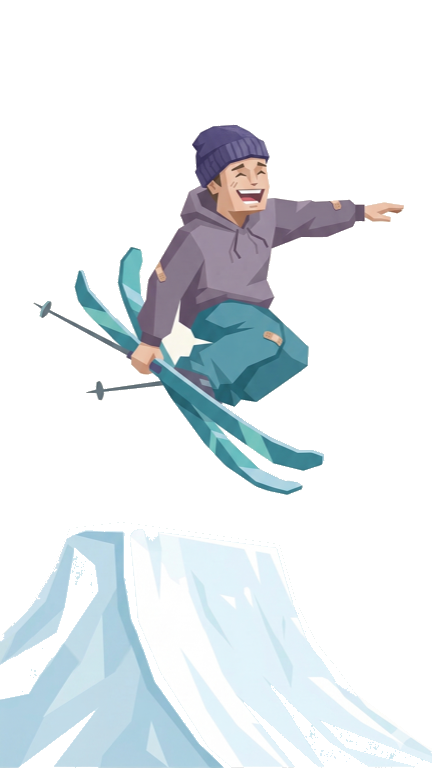
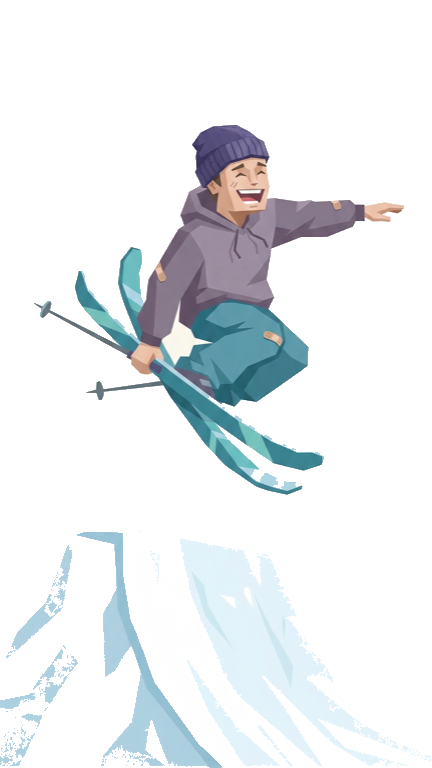
Improve checker removal: detect top-4 clusters, expand gray range
Some images had 3+ distinct shades in the checker pattern (e.g. drama.png
had 51/138/223/250). Previously only the top 2 clusters were used, leaving
intermediate shades as opaque fringe.

- Detect up to 4 background color clusters (was 2)
- Wider color tolerance (18 from 12)
- Gray range padding: extend lower by 10 and upper to 255 if near-white
- Add tree.png (new personality image)

All images now have <2% opaque edge pixels (was 53% for drama).

diff --git a/scripts/remove-checker.js b/scripts/remove-checker.js
@@ -17,7 +17,7 @@ const { PNG } = require("pngjs");
 const DIR = path.join(__dirname, "..", "public", "images", "personalities");
 const BACKUP_DIR = path.join(__dirname, "..", "public", "images", "personalities-raw");
 
-const COLOR_TOLERANCE = 12; // max component difference to consider "same color"
+const COLOR_TOLERANCE = 18; // max component difference to consider "same color"
 
 function colorDist(a, b) {
   return Math.max(Math.abs(a[0] - b[0]), Math.abs(a[1] - b[1]), Math.abs(a[2] - b[2]));
@@ -60,8 +60,10 @@ function detectBackgroundColors(data, w, h) {
   }
 
   clusters.sort((a, b) => b.count - a.count);
-  // Round the center colors for clean output
-  const top = clusters.slice(0, 2).map((c) => [
+  // Take top 4 clusters to handle images with >2 background colors (e.g.
+  // a checker pattern that includes anti-aliased intermediate shades, or a
+  // background that has separate sky/snow colors).
+  const top = clusters.slice(0, 4).map((c) => [
     Math.round(c.center[0]),
     Math.round(c.center[1]),
     Math.round(c.center[2]),
@@ -80,12 +82,47 @@ function processImage(filename) {
   // Detect background colors
   const bgColors = detectBackgroundColors(data, w, h);
   const bgTotal = bgColors.reduce((s, c) => s + c[3], 0);
-  // Only accept a color as background if it represents > 5% of edge samples
-  const activeBg = bgColors.filter((c) => c[3] / bgTotal > 0.05);
+  // Accept any cluster that represents > 3% of edge samples
+  const activeBg = bgColors.filter((c) => c[3] / bgTotal > 0.03);
+
+  // Compute gray-brightness range spanned by the detected colors. If all the
+  // detected bg colors are gray (R≈G≈B), we'll also accept any gray pixel
+  // with brightness between min and max — this handles checker patterns that
+  // include anti-aliased intermediate shades (e.g. drama.png had 51, 138, 223
+  // all as background but detection only found 51 and 223).
+  const bgAllGray = activeBg.every(([r, g, b]) => {
+    const max = Math.max(r, g, b);
+    const min = Math.min(r, g, b);
+    return max - min <= 8;
+  });
+  let grayMin = Infinity, grayMax = -Infinity;
+  if (bgAllGray) {
+    for (const [r, g, b] of activeBg) {
+      const avg = (r + g + b) / 3;
+      if (avg < grayMin) grayMin = avg;
+      if (avg > grayMax) grayMax = avg;
+    }
+    // Padding so edge cases at the detected cluster centers still match.
+    // Also ensure the range extends to near-white (255) since checker patterns
+    // with a "light" color often have anti-aliased pixels close to 255.
+    grayMin -= 10;
+    grayMax += 15;
+    if (grayMax > 200) grayMax = 255;
+  }
 
   const isBackgroundPixel = (r, g, b) => {
+    // Direct cluster-center match (tight tolerance)
     for (const [br, bg, bb] of activeBg) {
       if (colorDist([r, g, b], [br, bg, bb]) <= COLOR_TOLERANCE) return true;
+    }
+    // Gray-range match: any gray pixel between the detected grays
+    if (bgAllGray) {
+      const max = Math.max(r, g, b);
+      const min = Math.min(r, g, b);
+      if (max - min <= 10) {
+        const avg = (r + g + b) / 3;
+        if (avg >= grayMin && avg <= grayMax) return true;
+      }
     }
     return false;
   };
